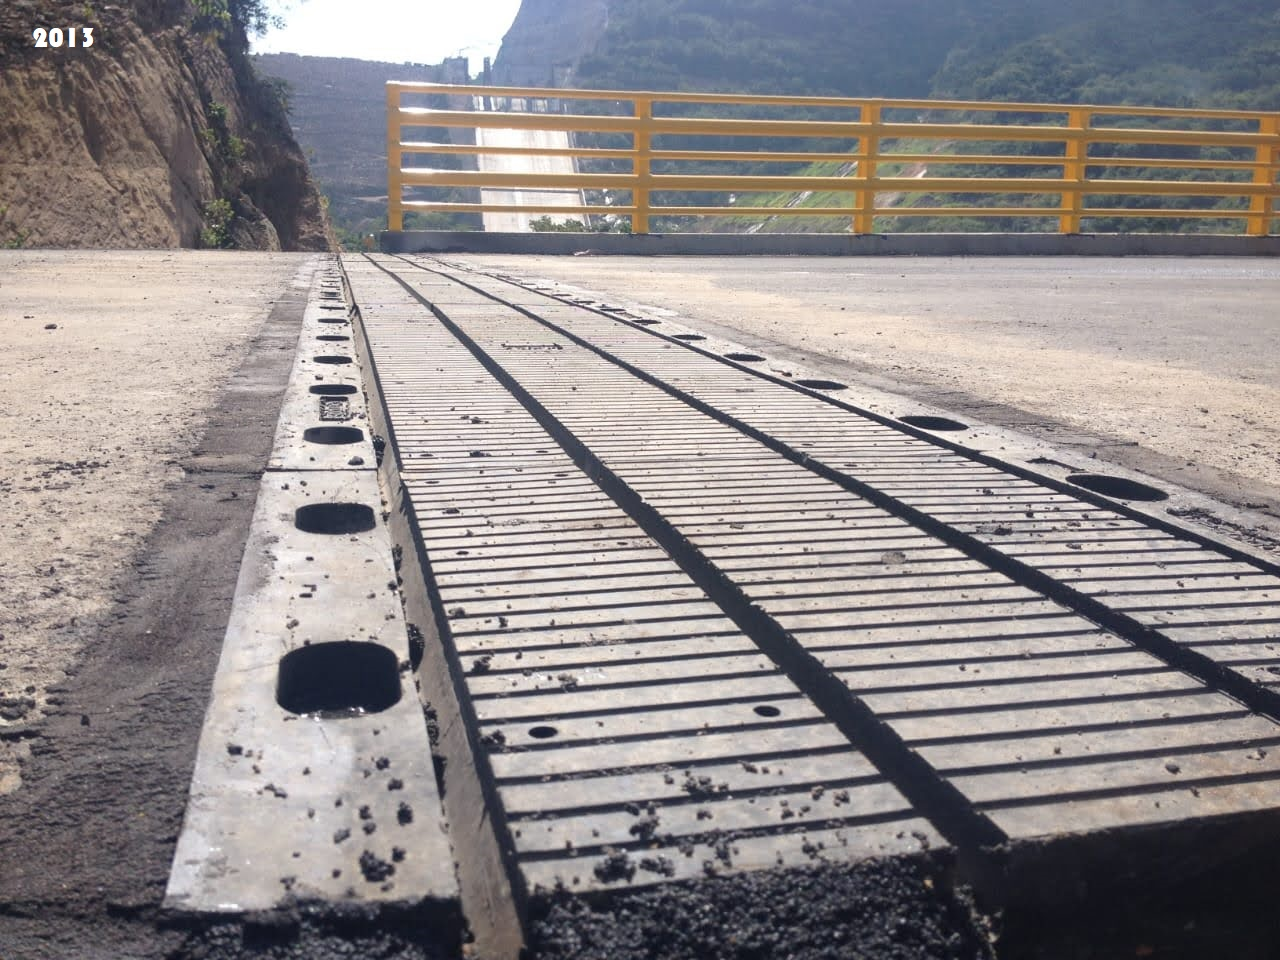
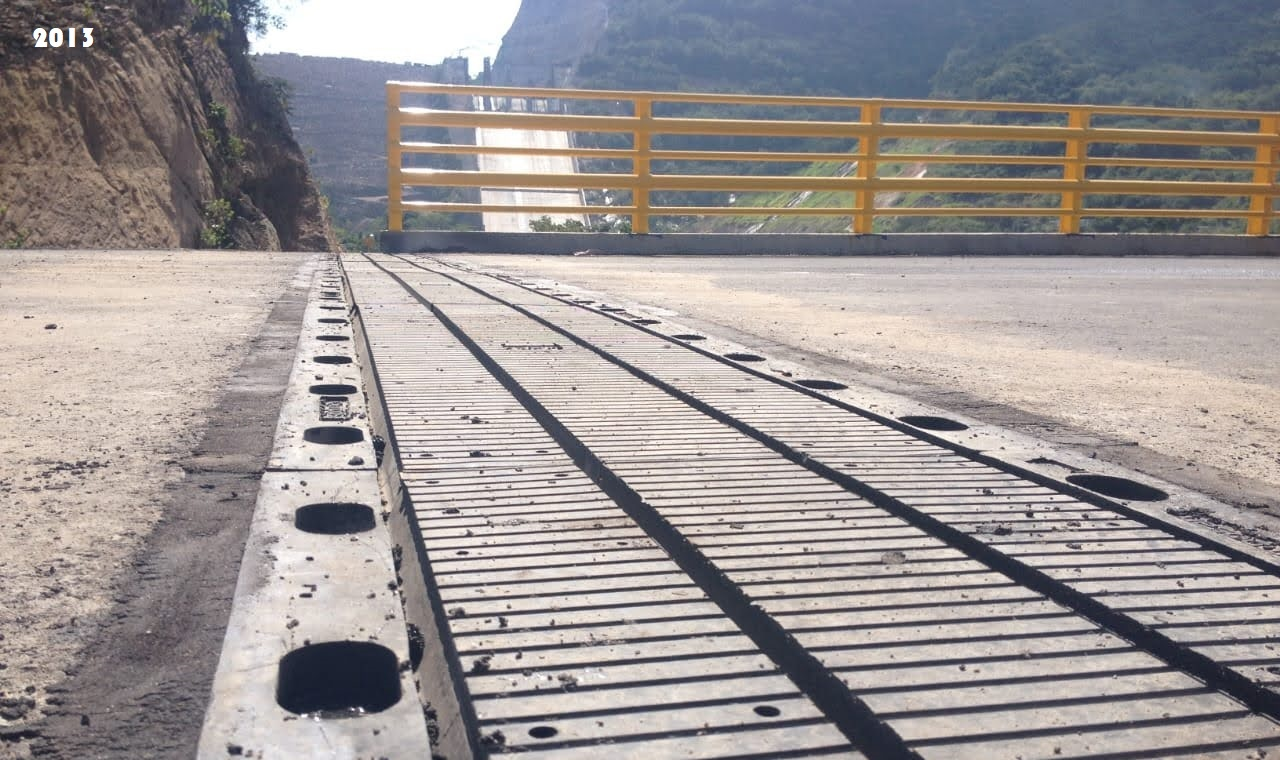
update4

diff --git a/src/app.py b/src/app.py
@@ -1,14 +1,6 @@
 from dash import Dash, html                                     # pip install dash
 from dash_extensions import BeforeAfter  # pip install dash-extensions==0.0.47 or higher
 import dash_bootstrap_components as dbc  # dash-bootstrap-components
-# import pathlib
-#
-# PATH = pathlib.Path(__file__).parent
-# DATA_PATH = PATH.joinpath('../data').resolve()
-
-
-# lidfofline = [pd.read_excel(DATA_PATH.joinpath('df{}.xlsx'.format(litickers[x])), index_col=0) for x in
-#               range(len(litickers))]
 
 app = Dash(__name__, external_stylesheets=[dbc.themes.BOOTSTRAP])
 server = app.server
@@ -16,17 +8,19 @@ app.layout = dbc.Container([
     dbc.Row(
         dbc.Col([
             html.H1("REHABTEC CUMPLE 10 AÑOS", style={'textAlign':'center'})
-        ], xs =12,sm =12, md= 12,lg = 5,xl= 5)
-    ),
+        ], width=12),
+    align="center"),
     html.Hr(),
     dbc.Row([
         dbc.Col([
             html.H2("2013-PUENTE DE LA PAZ RÍO SOGAMOSO-2023"),
-            BeforeAfter(before=dict(src="/assets/juntabefore.jpg"), after=dict(src="/assets/juntaafter2.jpg"), width='450', height='450',value =50)
-        ], xs =12,sm =12, md= 12,lg = 5,xl= 5, style={'textAlign':'center'}),
-    ],className='mb-5'),
-], fluid =False)
+            BeforeAfter(before=dict(src="/assets/juntabefore.jpg"), after=dict(src="/assets/juntaafter3.jpg"), width='100%', height='auto',value =50)
+        ], width=12, style={'textAlign':'center'}),
+    ],align="center"),
+], fluid =True)
 
 
 if __name__ == '__main__':
     app.run_server(debug=True)
+
+    # xs = 12, sm = 12, md = 12, lg = 5, xl = 5
